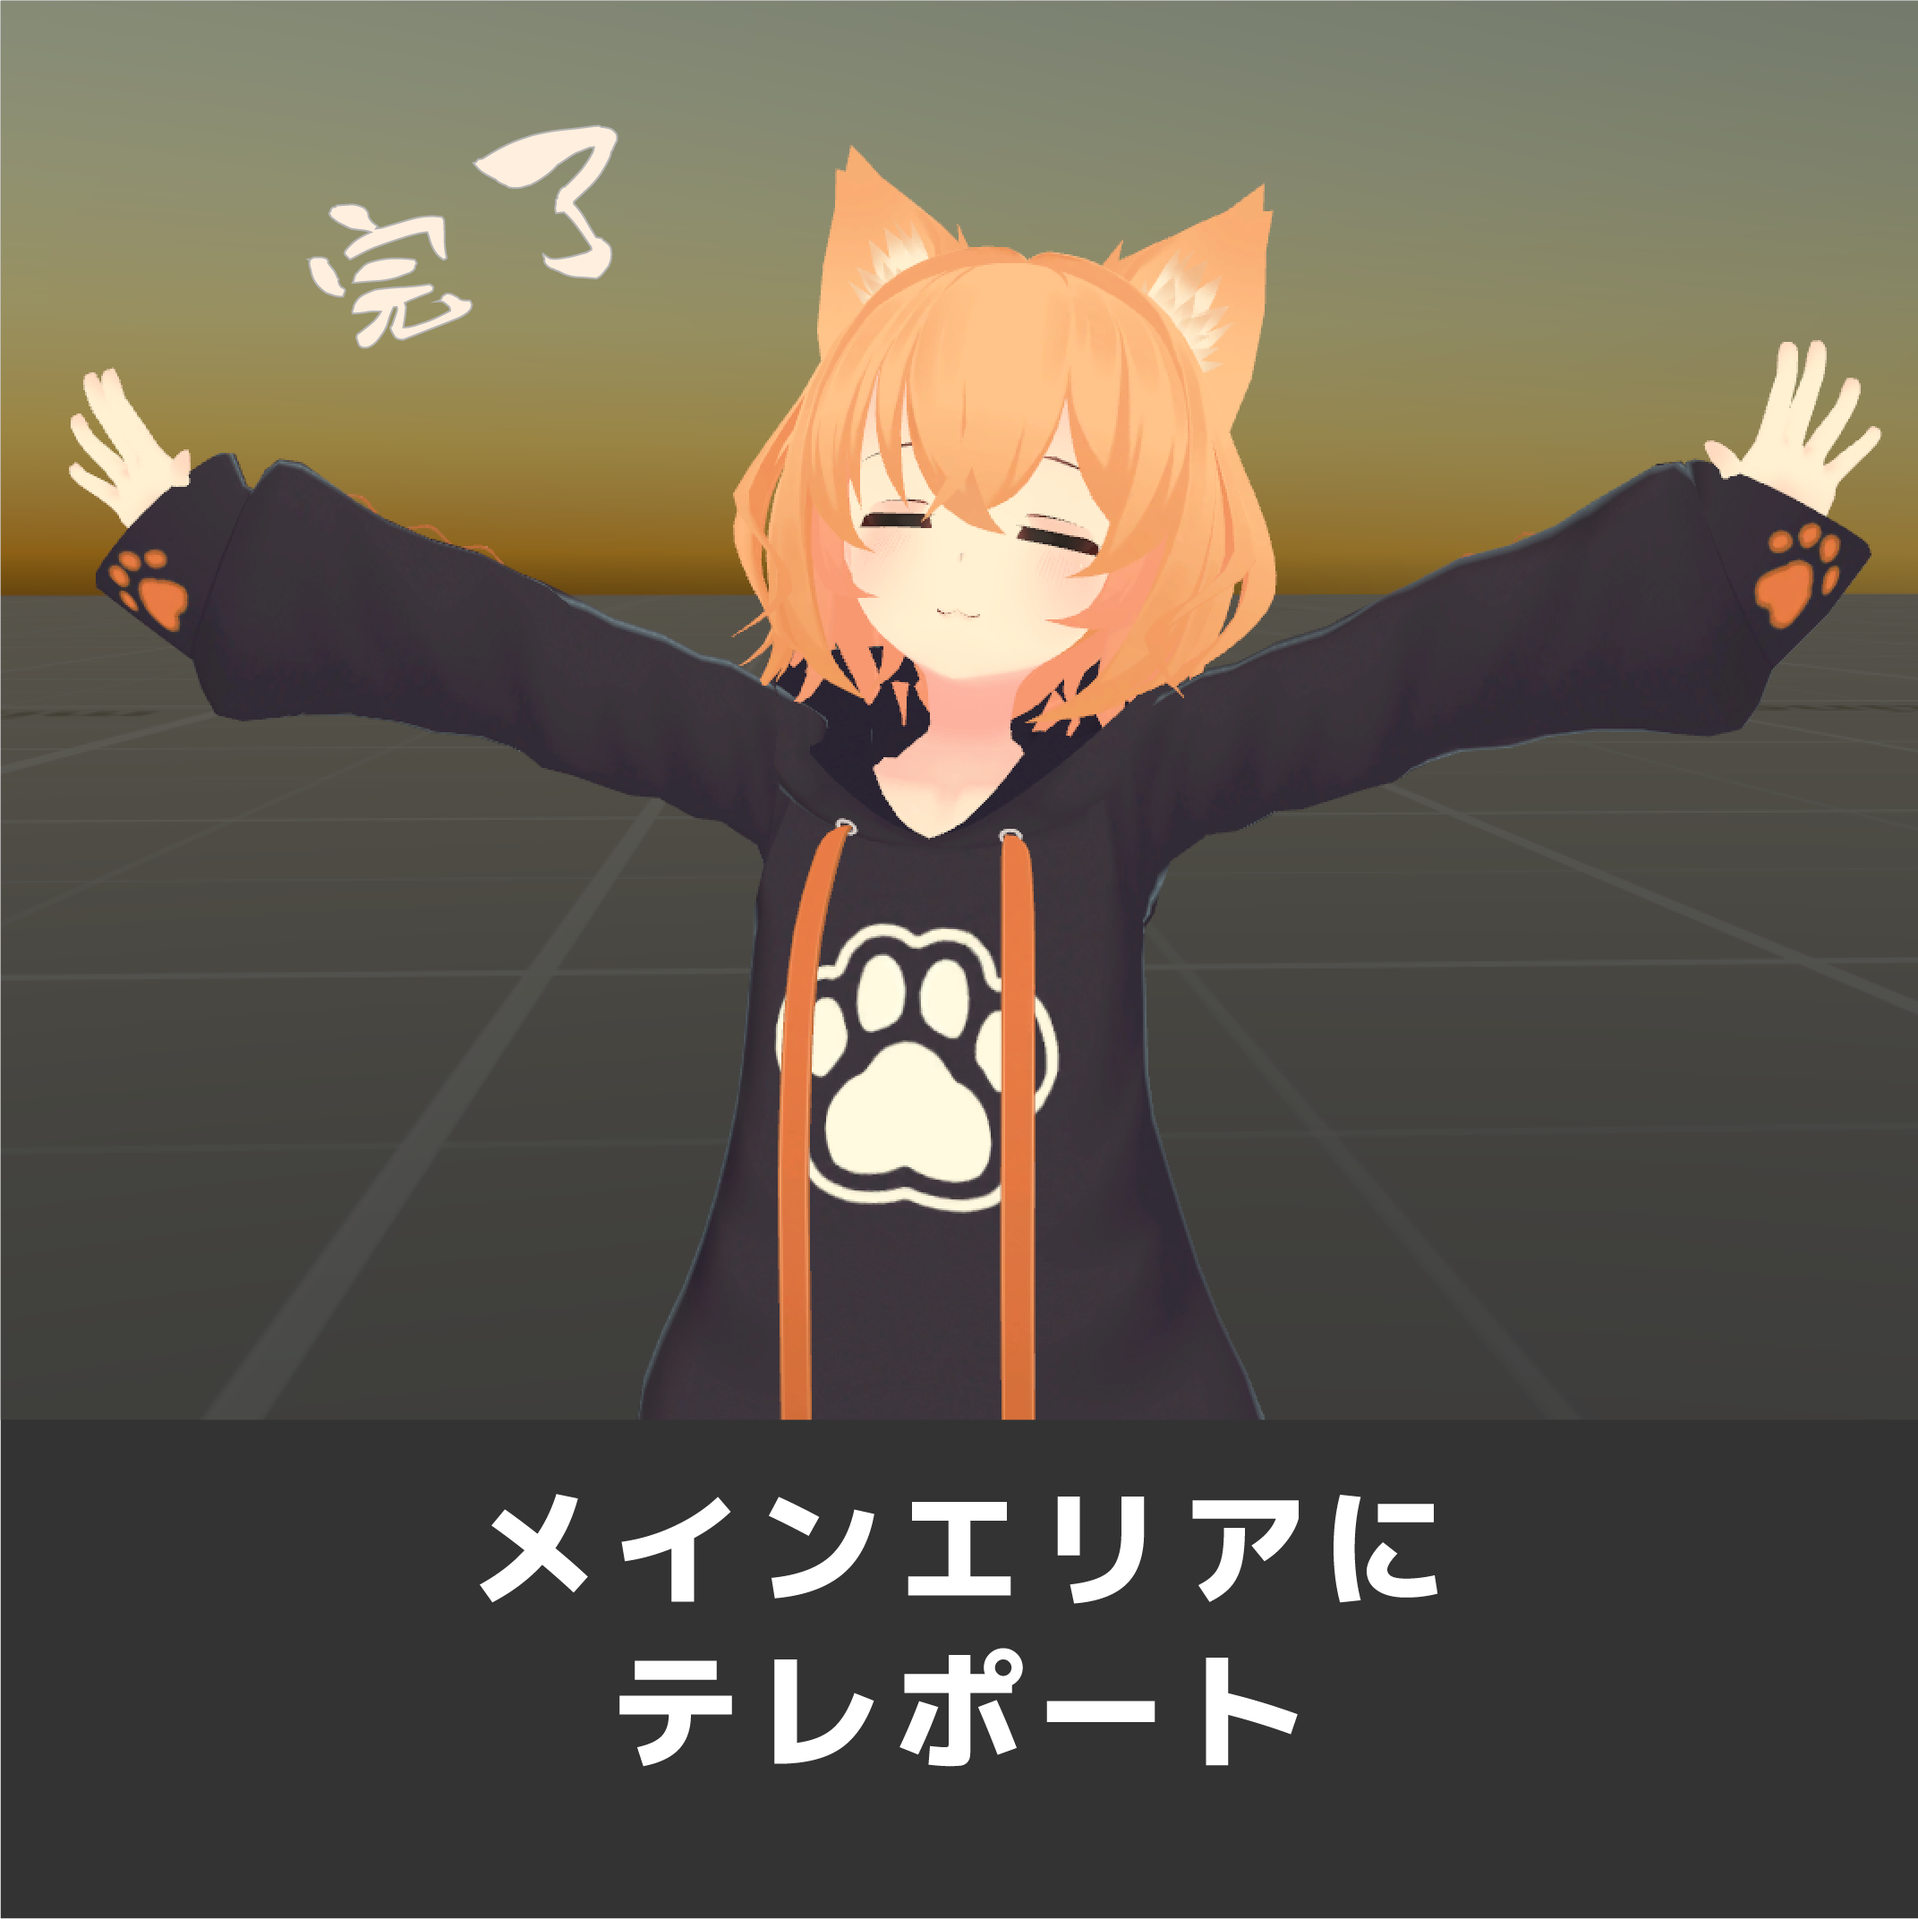
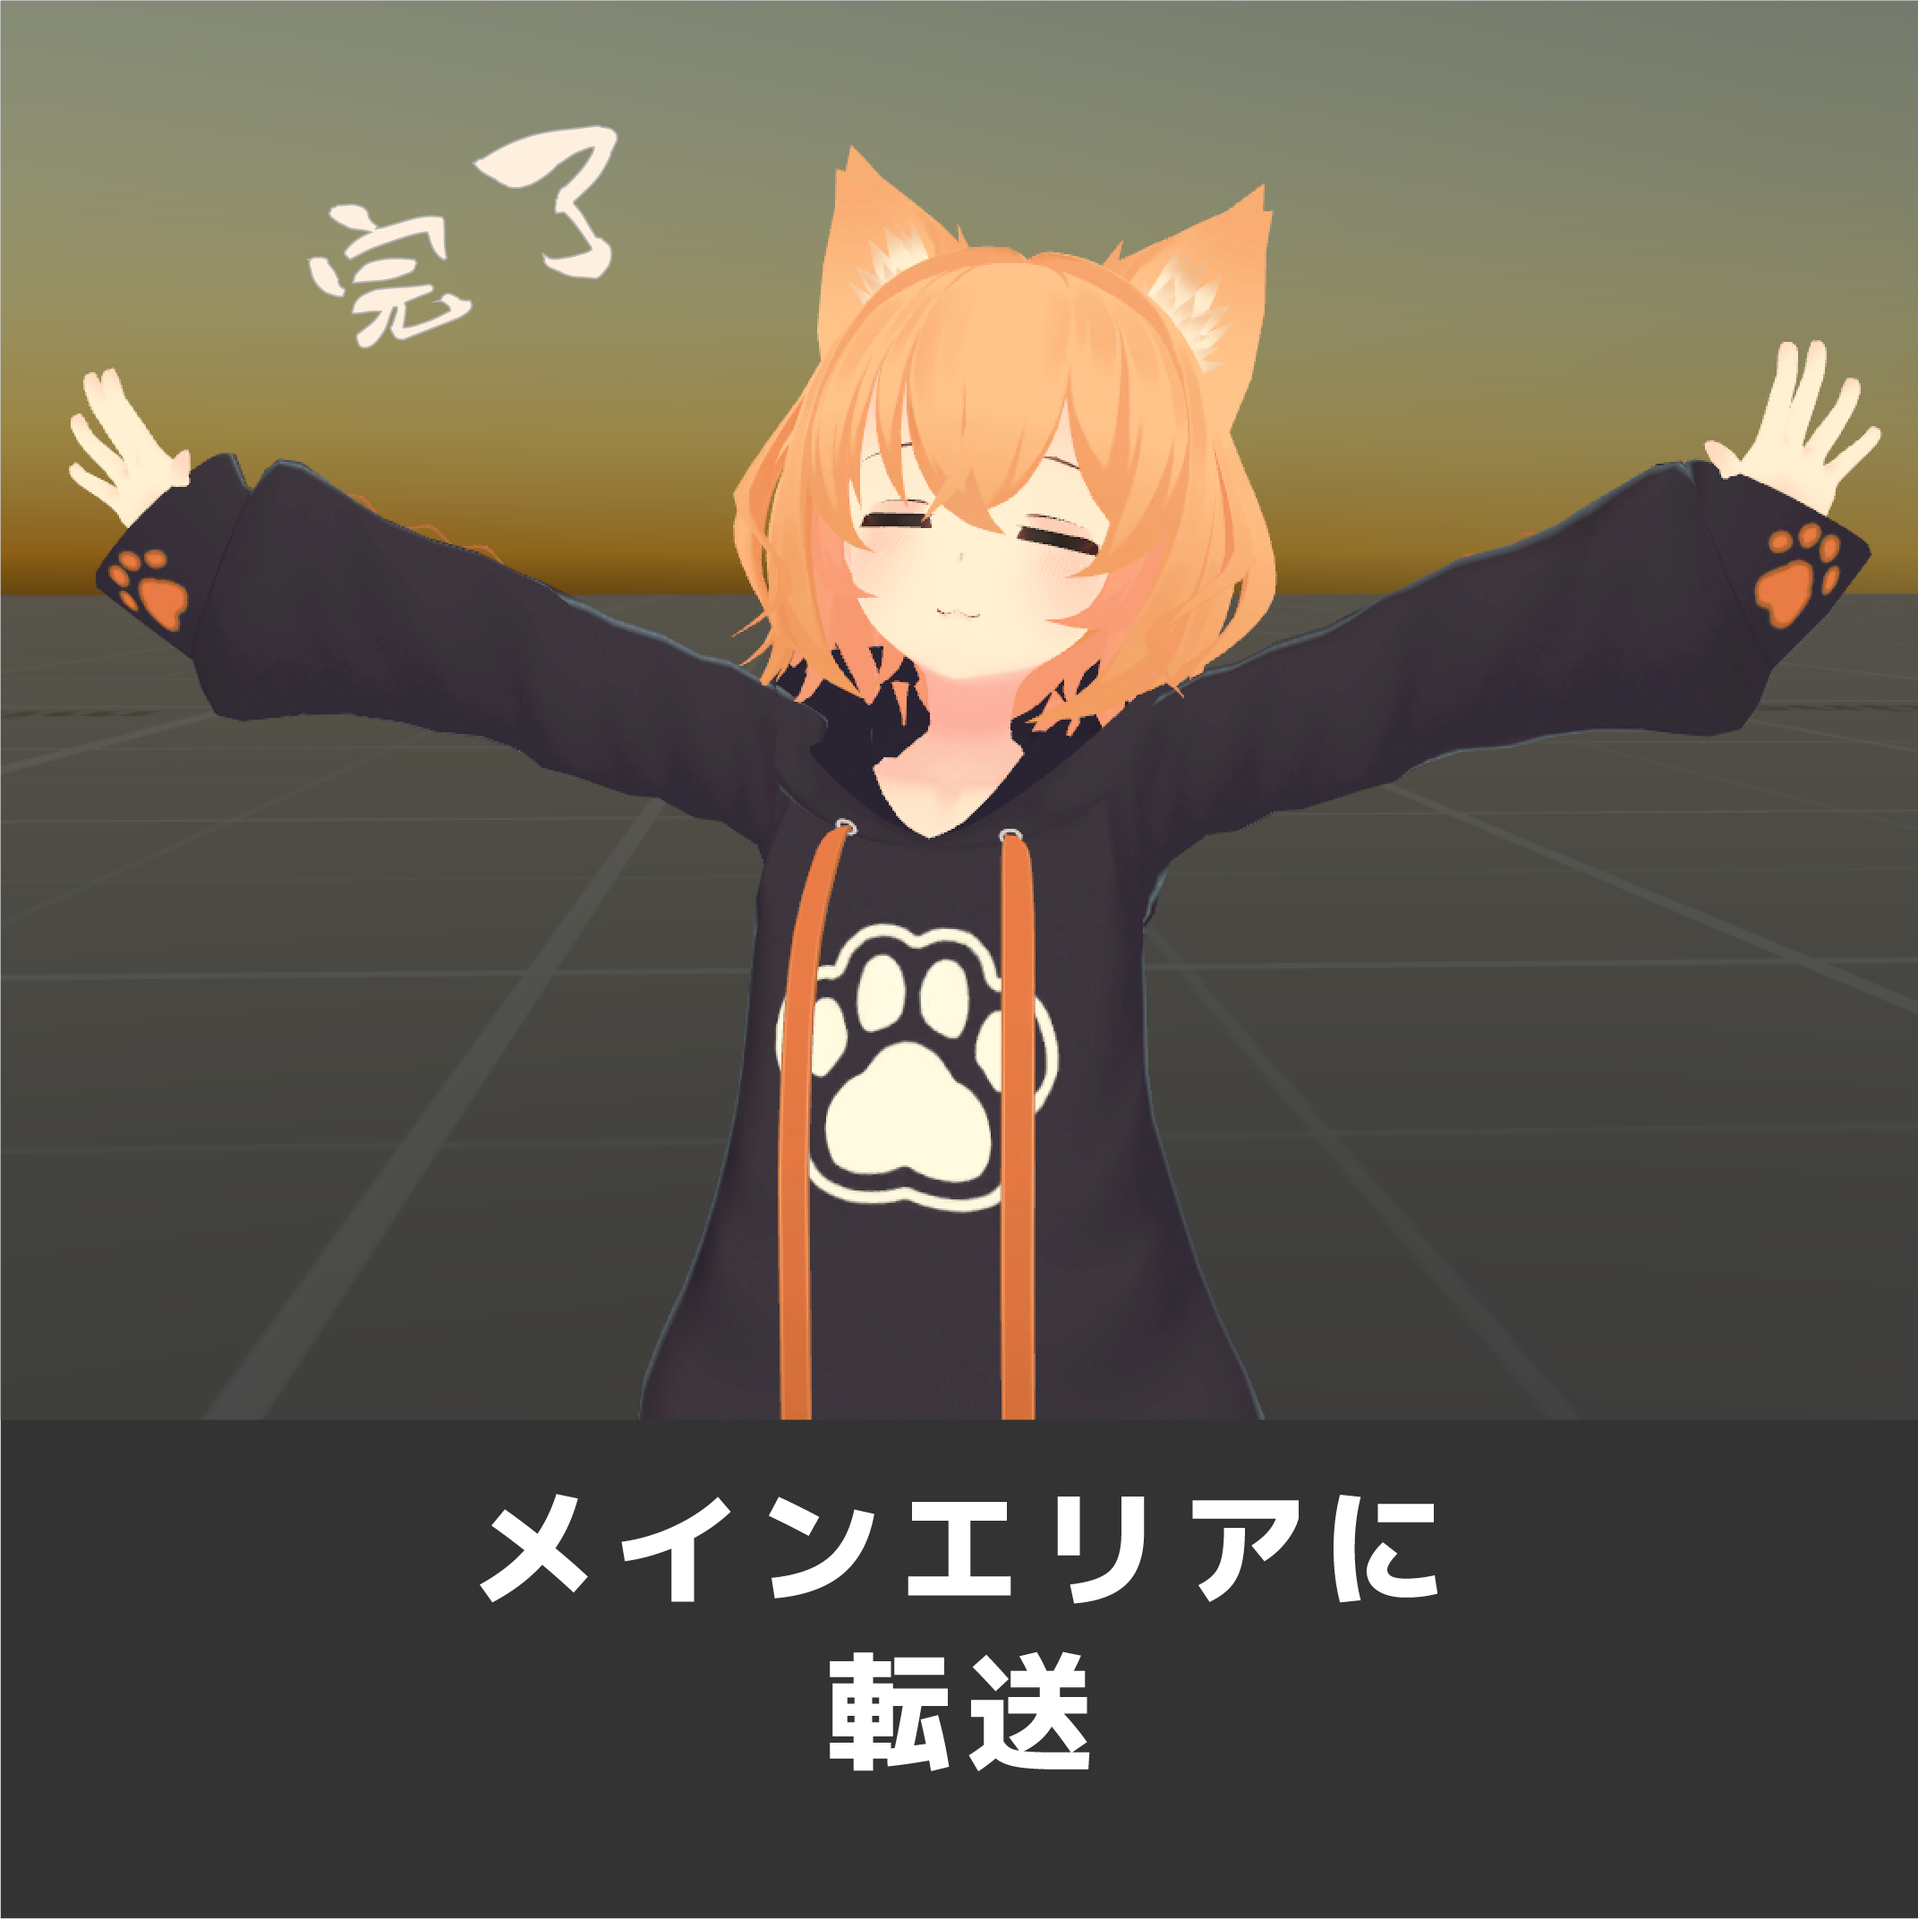
画像差し替え

Changed region(s): [[0.308, 0.8438, 0.6776, 0.9375]]

diff --git a/ers-docs/docs/intro.md b/ers-docs/docs/intro.md
@@ -3,20 +3,21 @@ sidebar_position: 1
 sidebar_label: Entrance Room Systemについて
 ---
 
+import ClickableImage from '@site/src/components/ClickableImage';
+
 # Entrance Room Systemについて
 
 Entrance Room System（ERS）は、VRChatワールドで使用できるエントランスルームシステムです。
 
-![ERS Preview](/img/ers-preview.png)
+<ClickableImage src="/img/ers-preview.png" alt="ERS Preview" />
 
 ## 主要機能
 
-ERSはワールドの導線づくりを支援する以下の機能を備えています。
+ERSはワールド入室後、個別の注意書き部屋へ転送し、同意後メインエリアに転送する仕組みを簡単構築します。
 
-- **個別待機ルーム管理**: 入室直後にプレイヤーを一時的な待機ルームへ自動転送し、混雑を避けながら準備時間を確保します。
-- **注意事項と同意フロー**: 注意書きやルールを順番に提示し、同意ボタンを押したプレイヤーだけをメインエリアへ送り出します。
-- **コントロールパネル連携**: ワールド内のパネルからエントランス転送の有効／無効や関連設定を運営側が即座に切り替えられます。
-- **柔軟な拡張性**: UdonSharpスクリプトやエリア設定を組み合わせ、イベント規模やルールに合わせたカスタマイズが可能です。
+1. ジョイン後、個別の部屋に転送
+2. 部屋の中で注意事項を同意
+3. メインエリアに転送
 
 ## 動作環境
 
